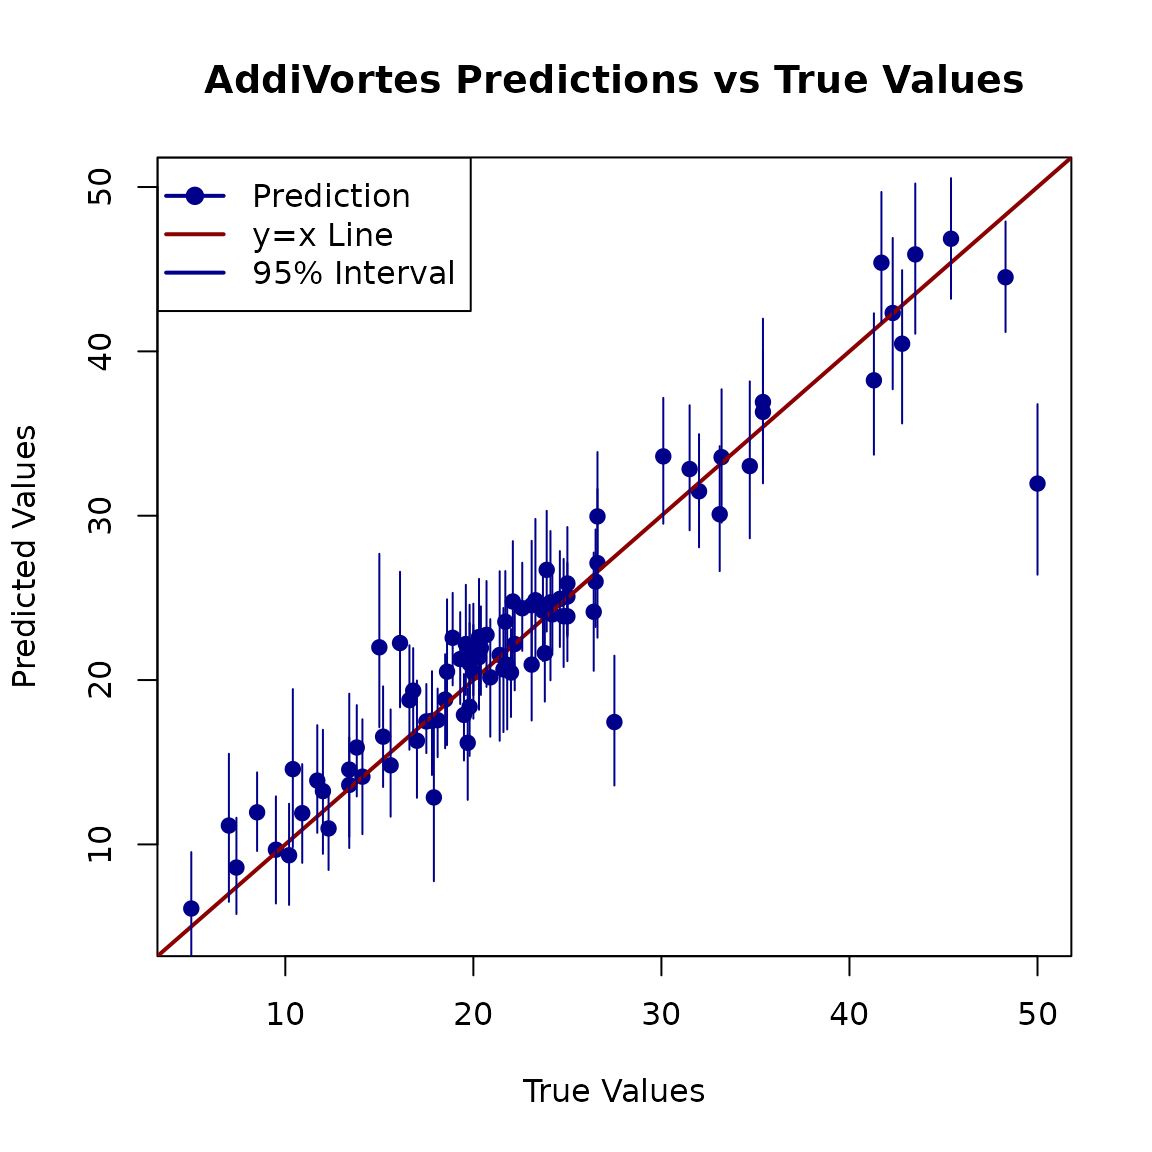
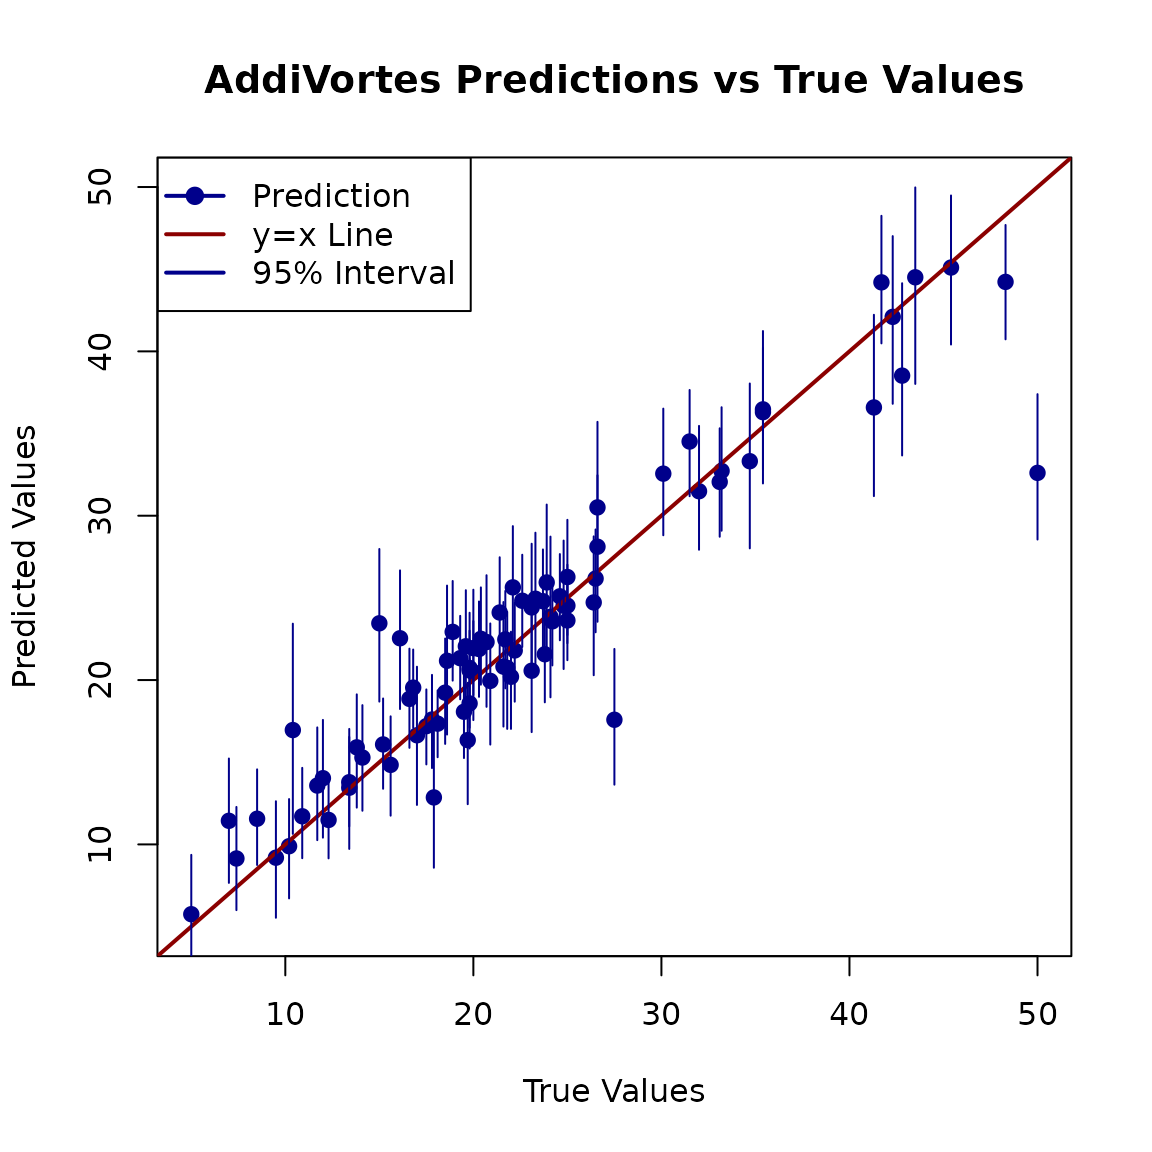
Deploying to gh-pages from @ johnpaulgosling/AddiVortes@03c5ef82b6afc6fa504052aacede6aa80f4cd9ce 🚀

diff --git a/articles/introduction.html b/articles/introduction.html
@@ -20,7 +20,7 @@
 
     <a class="navbar-brand me-2" href="../index.html">AddiVortes</a>
 
-    <small class="nav-text text-muted me-auto" data-bs-toggle="tooltip" data-bs-placement="bottom" title="">0.1.19</small>
+    <small class="nav-text text-muted me-auto" data-bs-toggle="tooltip" data-bs-placement="bottom" title="">0.1.20</small>
 
 
     <button class="navbar-toggler" type="button" data-bs-toggle="collapse" data-bs-target="#navbar" aria-controls="navbar" aria-expanded="false" aria-label="Toggle navigation">
@@ -148,12 +148,12 @@ unseen test data. We will then calculate the Root Mean Squared Error
 <span><span class="co"># The 8th element of the results object might contain useful info, like variable importance</span></span>
 <span><span class="co"># For this example, we just display it</span></span>
 <span><span class="fu"><a href="https://rdrr.io/r/base/cat.html" class="external-link">cat</a></span><span class="op">(</span><span class="st">"In-Sample RMSE:"</span>, <span class="va">results</span><span class="op">$</span><span class="va">inSampleRmse</span>, <span class="st">"\n"</span><span class="op">)</span></span>
-<span><span class="co">#&gt; In-Sample RMSE: 1.172312</span></span>
+<span><span class="co">#&gt; In-Sample RMSE: 1.182148</span></span>
 <span></span>
 <span><span class="co"># Calculate the Root Mean Squared Error (RMSE)</span></span>
 <span><span class="va">rmse</span> <span class="op">&lt;-</span> <span class="fu"><a href="https://rdrr.io/r/base/MathFun.html" class="external-link">sqrt</a></span><span class="op">(</span><span class="fu"><a href="https://rdrr.io/r/base/mean.html" class="external-link">mean</a></span><span class="op">(</span><span class="op">(</span><span class="va">Y_Boston</span><span class="op">[</span><span class="va">TestSet</span><span class="op">]</span> <span class="op">-</span> <span class="va">preds</span><span class="op">)</span><span class="op">^</span><span class="fl">2</span><span class="op">)</span><span class="op">)</span></span>
 <span><span class="fu"><a href="https://rdrr.io/r/base/cat.html" class="external-link">cat</a></span><span class="op">(</span><span class="st">"Test Set RMSE:"</span>, <span class="va">rmse</span>, <span class="st">"\n"</span><span class="op">)</span></span>
-<span><span class="co">#&gt; Test Set RMSE: 3.116504</span></span></code></pre></div>
+<span><span class="co">#&gt; Test Set RMSE: 3.206674</span></span></code></pre></div>
 </div>
 <div class="section level3">
 <h3 id="visualising-the-results">5. Visualising the Results<a class="anchor" aria-label="anchor" href="#visualising-the-results"></a>

diff --git a/articles/prediction.html b/articles/prediction.html
@@ -20,7 +20,7 @@
 
     <a class="navbar-brand me-2" href="../index.html">AddiVortes</a>
 
-    <small class="nav-text text-muted me-auto" data-bs-toggle="tooltip" data-bs-placement="bottom" title="">0.1.19</small>
+    <small class="nav-text text-muted me-auto" data-bs-toggle="tooltip" data-bs-placement="bottom" title="">0.1.20</small>
 
 
     <button class="navbar-toggler" type="button" data-bs-toggle="collapse" data-bs-target="#navbar" aria-controls="navbar" aria-expanded="false" aria-label="Toggle navigation">
@@ -119,7 +119,7 @@ for a quick demonstration.</p>
 <div class="sourceCode" id="cb3"><pre class="downlit sourceCode r">
 <code class="sourceCode R"><span><span class="co"># We can check the in-sample Root Mean Squared Error</span></span>
 <span><span class="fu"><a href="https://rdrr.io/r/base/cat.html" class="external-link">cat</a></span><span class="op">(</span><span class="st">"In-sample RMSE:"</span>, <span class="va">AModel</span><span class="op">$</span><span class="va">inSampleRmse</span>, <span class="st">"\n"</span><span class="op">)</span></span>
-<span><span class="co">#&gt; In-sample RMSE: 0.988696</span></span></code></pre></div>
+<span><span class="co">#&gt; In-sample RMSE: 0.8454648</span></span></code></pre></div>
 <p>The in-sample RMSE gives us an idea of how well the model fits the
 data it was trained on. However, the true test of a model is its
 performance on new data.</p>

diff --git a/authors.html b/authors.html
@@ -7,7 +7,7 @@
 
     <a class="navbar-brand me-2" href="index.html">AddiVortes</a>
 
-    <small class="nav-text text-muted me-auto" data-bs-toggle="tooltip" data-bs-placement="bottom" title="">0.1.19</small>
+    <small class="nav-text text-muted me-auto" data-bs-toggle="tooltip" data-bs-placement="bottom" title="">0.1.20</small>
 
 
     <button class="navbar-toggler" type="button" data-bs-toggle="collapse" data-bs-target="#navbar" aria-controls="navbar" aria-expanded="false" aria-label="Toggle navigation">
@@ -54,13 +54,13 @@
 
       <p>Stone A, Gosling J (2025).
 <em>AddiVortes: (Bayesian) Additive Voronoi Tessellations</em>.
-R package version 0.1.19, <a href="https://johnpaulgosling.github.io/AddiVortes/">https://johnpaulgosling.github.io/AddiVortes/</a>.
+R package version 0.1.20, <a href="https://johnpaulgosling.github.io/AddiVortes/">https://johnpaulgosling.github.io/AddiVortes/</a>.
 </p>
       <pre>@Manual{,
   title = {AddiVortes: (Bayesian) Additive Voronoi Tessellations},
   author = {Adam Stone and John Paul Gosling},
   year = {2025},
-  note = {R package version 0.1.19},
+  note = {R package version 0.1.20},
   url = {https://johnpaulgosling.github.io/AddiVortes/},
 }</pre>
     </div>

diff --git a/reference/predict.AddiVortesFit.html b/reference/predict.AddiVortesFit.html
@@ -11,7 +11,7 @@ Root Mean Squared Error (RMSE) if true outcomes are provided."></head><body>
 
     <a class="navbar-brand me-2" href="../index.html">AddiVortes</a>
 
-    <small class="nav-text text-muted me-auto" data-bs-toggle="tooltip" data-bs-placement="bottom" title="">0.1.19</small>
+    <small class="nav-text text-muted me-auto" data-bs-toggle="tooltip" data-bs-placement="bottom" title="">0.1.20</small>
 
 
     <button class="navbar-toggler" type="button" data-bs-toggle="collapse" data-bs-target="#navbar" aria-controls="navbar" aria-expanded="false" aria-label="Toggle navigation">

diff --git a/reference/plot.AddiVortesFit.html b/reference/plot.AddiVortesFit.html
@@ -11,7 +11,7 @@ for the training set to help visualise model fit."></head><body>
 
     <a class="navbar-brand me-2" href="../index.html">AddiVortes</a>
 
-    <small class="nav-text text-muted me-auto" data-bs-toggle="tooltip" data-bs-placement="bottom" title="">0.1.19</small>
+    <small class="nav-text text-muted me-auto" data-bs-toggle="tooltip" data-bs-placement="bottom" title="">0.1.20</small>
 
 
     <button class="navbar-toggler" type="button" data-bs-toggle="collapse" data-bs-target="#navbar" aria-controls="navbar" aria-expanded="false" aria-label="Toggle navigation">

diff --git a/404.html b/404.html
@@ -20,7 +20,7 @@
 
     <a class="navbar-brand me-2" href="https://johnpaulgosling.github.io/AddiVortes/index.html">AddiVortes</a>
 
-    <small class="nav-text text-muted me-auto" data-bs-toggle="tooltip" data-bs-placement="bottom" title="">0.1.19</small>
+    <small class="nav-text text-muted me-auto" data-bs-toggle="tooltip" data-bs-placement="bottom" title="">0.1.20</small>
 
 
     <button class="navbar-toggler" type="button" data-bs-toggle="collapse" data-bs-target="#navbar" aria-controls="navbar" aria-expanded="false" aria-label="Toggle navigation">

diff --git a/reference/AddiVortes.html b/reference/AddiVortes.html
@@ -15,7 +15,7 @@ the test samples."></head><body>
 
     <a class="navbar-brand me-2" href="../index.html">AddiVortes</a>
 
-    <small class="nav-text text-muted me-auto" data-bs-toggle="tooltip" data-bs-placement="bottom" title="">0.1.19</small>
+    <small class="nav-text text-muted me-auto" data-bs-toggle="tooltip" data-bs-placement="bottom" title="">0.1.20</small>
 
 
     <button class="navbar-toggler" type="button" data-bs-toggle="collapse" data-bs-target="#navbar" aria-controls="navbar" aria-expanded="false" aria-label="Toggle navigation">

diff --git a/articles/index.html b/articles/index.html
@@ -7,7 +7,7 @@
 
     <a class="navbar-brand me-2" href="../index.html">AddiVortes</a>
 
-    <small class="nav-text text-muted me-auto" data-bs-toggle="tooltip" data-bs-placement="bottom" title="">0.1.19</small>
+    <small class="nav-text text-muted me-auto" data-bs-toggle="tooltip" data-bs-placement="bottom" title="">0.1.20</small>
 
 
     <button class="navbar-toggler" type="button" data-bs-toggle="collapse" data-bs-target="#navbar" aria-controls="navbar" aria-expanded="false" aria-label="Toggle navigation">

diff --git a/reference/index.html b/reference/index.html
@@ -7,7 +7,7 @@
 
     <a class="navbar-brand me-2" href="../index.html">AddiVortes</a>
 
-    <small class="nav-text text-muted me-auto" data-bs-toggle="tooltip" data-bs-placement="bottom" title="">0.1.19</small>
+    <small class="nav-text text-muted me-auto" data-bs-toggle="tooltip" data-bs-placement="bottom" title="">0.1.20</small>
 
 
     <button class="navbar-toggler" type="button" data-bs-toggle="collapse" data-bs-target="#navbar" aria-controls="navbar" aria-expanded="false" aria-label="Toggle navigation">

diff --git a/reference/new_AddiVortesFit.html b/reference/new_AddiVortesFit.html
@@ -7,7 +7,7 @@
 
     <a class="navbar-brand me-2" href="../index.html">AddiVortes</a>
 
-    <small class="nav-text text-muted me-auto" data-bs-toggle="tooltip" data-bs-placement="bottom" title="">0.1.19</small>
+    <small class="nav-text text-muted me-auto" data-bs-toggle="tooltip" data-bs-placement="bottom" title="">0.1.20</small>
 
 
     <button class="navbar-toggler" type="button" data-bs-toggle="collapse" data-bs-target="#navbar" aria-controls="navbar" aria-expanded="false" aria-label="Toggle navigation">

diff --git a/index.html b/index.html
@@ -22,7 +22,7 @@
 
     <a class="navbar-brand me-2" href="index.html">AddiVortes</a>
 
-    <small class="nav-text text-muted me-auto" data-bs-toggle="tooltip" data-bs-placement="bottom" title="">0.1.19</small>
+    <small class="nav-text text-muted me-auto" data-bs-toggle="tooltip" data-bs-placement="bottom" title="">0.1.20</small>
 
 
     <button class="navbar-toggler" type="button" data-bs-toggle="collapse" data-bs-target="#navbar" aria-controls="navbar" aria-expanded="false" aria-label="Toggle navigation">

diff --git a/LICENSE-text.html b/LICENSE-text.html
@@ -7,7 +7,7 @@
 
     <a class="navbar-brand me-2" href="index.html">AddiVortes</a>
 
-    <small class="nav-text text-muted me-auto" data-bs-toggle="tooltip" data-bs-placement="bottom" title="">0.1.19</small>
+    <small class="nav-text text-muted me-auto" data-bs-toggle="tooltip" data-bs-placement="bottom" title="">0.1.20</small>
 
 
     <button class="navbar-toggler" type="button" data-bs-toggle="collapse" data-bs-target="#navbar" aria-controls="navbar" aria-expanded="false" aria-label="Toggle navigation">
